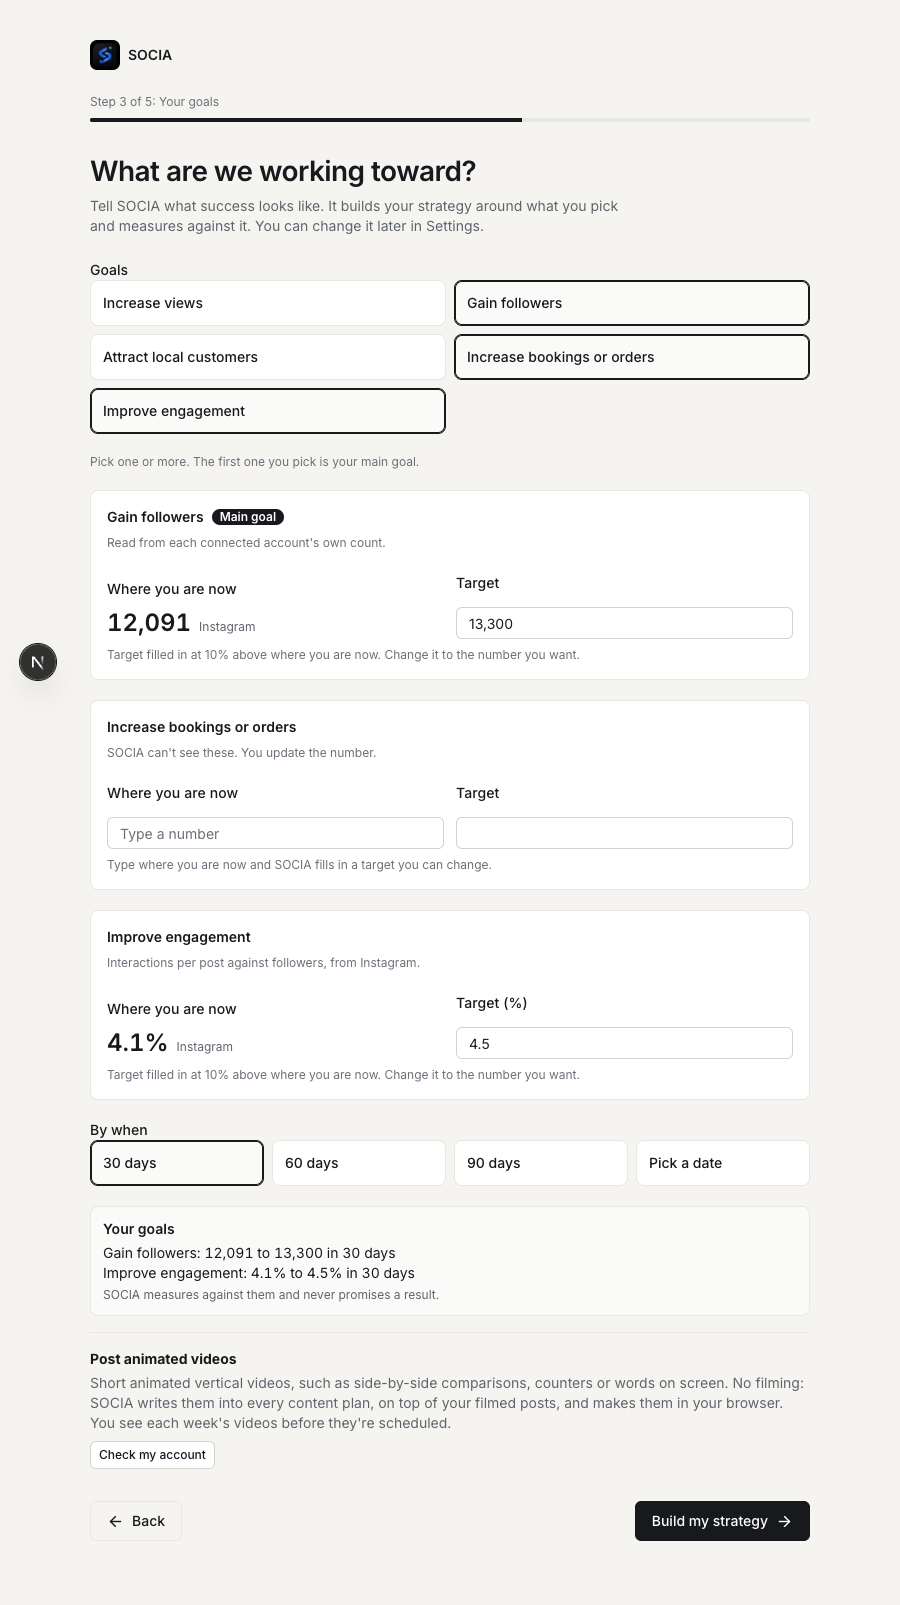
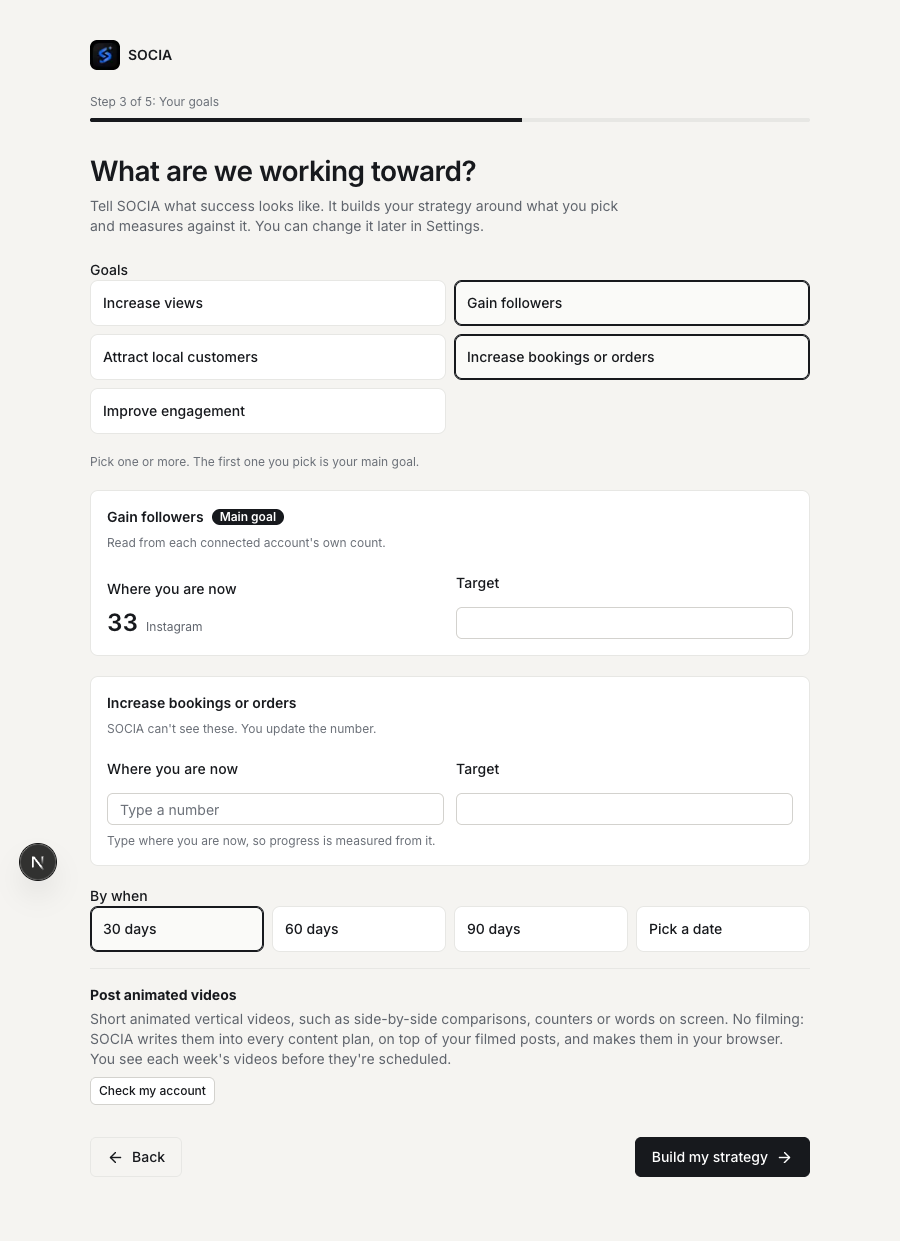
Onboarding goals: the person sets the target, nothing is filled in
The filled-in target (a fixed step above where the account is now) offered 37
followers to someone aiming for 5,000. The target field now starts empty and
the person types their own number. Where the account is now is still shown,
and 30 days is still the starting timeframe.

diff --git a/components/onboarding/GoalStep.tsx b/components/onboarding/GoalStep.tsx
@@ -2,13 +2,14 @@
 
 // Onboarding's goal step (Noah, 2026-11-15): pick one or more goals. Each
 // shows where the account is now (read from the connected accounts when SOCIA
-// can measure it, typed when it can't) and a target that is filled in as a
-// plain rule above that number (lib/goalStep.ts suggestTarget) for the person
-// to change. One timeframe covers all of them, 30 days unless changed. The
-// first goal picked is the main goal. Nothing here says a target will be met.
+// can measure it, typed when it can't) and a target the person sets
+// themselves: SOCIA doesn't fill one in (Noah, 2026-11-16: it offered 37
+// followers when he wanted 5,000). One timeframe covers all of them, 30 days
+// unless changed. The first goal picked is the main goal. Nothing here says a
+// target will be met.
 import { forwardRef, useEffect, useImperativeHandle, useRef, useState } from "react";
 import { GOAL_PLATFORM_NAME, MAIN_GOALS, formatGoalValue, goalMetric, type Goal, type GoalMetricId, type GoalPlatform, type MainGoalId } from "@/lib/growth";
-import { TIMEFRAMES, daysUntil, dueFor, dueIn, goalStepError, goalStepSummary, suggestRule, suggestTarget, targetNumber, type Timeframe } from "@/lib/goalStep";
+import { TIMEFRAMES, daysUntil, dueFor, dueIn, goalStepError, goalStepSummary, targetNumber, type Timeframe } from "@/lib/goalStep";
 import { Field, Input } from "@/components/system";
 import { Choices } from "@/components/growth/GrowthFields";
 
@@ -44,9 +45,8 @@ const GoalStep = forwardRef<GoalStepHandle, Props>(function GoalStep({ tableRead
     const start = [initial.main, ...(initial.others ?? [])].filter((g): g is MainGoalId => Boolean(g));
     return start.length ? [...new Set(start)] : suggested ? [suggested.goal] : [];
   });
-  // What the person typed, per goal. A target they haven't touched follows the rule.
+  // What the person typed, per goal.
   const [targets, setTargets] = useState<Partial<Record<MainGoalId, string>>>({});
-  const [edited, setEdited] = useState<Partial<Record<MainGoalId, boolean>>>({});
   const [typedNow, setTypedNow] = useState<Partial<Record<MainGoalId, string>>>({});
   const [frame, setFrame] = useState<Timeframe>(30);
   const [due, setDue] = useState("");
@@ -75,15 +75,15 @@ const GoalStep = forwardRef<GoalStepHandle, Props>(function GoalStep({ tableRead
       seeded.current = true;
       const goals = (Array.isArray(j?.goals) ? j.goals : []) as Goal[];
       setSaved(goals);
-      const t: Partial<Record<MainGoalId, string>> = {}, e: Partial<Record<MainGoalId, boolean>> = {}, n: Partial<Record<MainGoalId, string>> = {};
+      const t: Partial<Record<MainGoalId, string>> = {}, n: Partial<Record<MainGoalId, string>> = {};
       for (const m of MAIN_GOALS) {
         const g = goals.find((x) => x.metric === m.metric);
         if (!g) continue;
-        t[m.id] = show(m.metric, g.target); e[m.id] = true;
+        t[m.id] = show(m.metric, g.target);
         const at = g.current_value ?? g.baseline;
         if (!goalMetric(m.metric)?.measuredOn.length && at != null) n[m.id] = show(m.metric, at);
       }
-      setTargets((v) => ({ ...t, ...v })); setEdited((v) => ({ ...e, ...v })); setTypedNow((v) => ({ ...n, ...v }));
+      setTargets((v) => ({ ...t, ...v })); setTypedNow((v) => ({ ...n, ...v }));
       const primary = goals.find((g) => g.kind === "primary" && g.due_date && g.due_date > today);
       if (primary?.due_date) {
         const preset = TIMEFRAMES.find((d) => dueIn(d, today) === primary.due_date);
@@ -103,9 +103,7 @@ const GoalStep = forwardRef<GoalStepHandle, Props>(function GoalStep({ tableRead
     const metric = goalMetric(goal.metric)!;
     const read = nowValues?.[goal.metric] ?? null;
     const now = read ? read.value : targetNumber(typedNow[id] ?? "");
-    const rule = days ? suggestTarget(goal.metric, now, days) : null;
-    const target = edited[id] ? targets[id] ?? "" : rule != null ? show(goal.metric, rule) : "";
-    return { goal, metric, read, now, rule, target, manual: !metric.measuredOn.length };
+    return { goal, metric, read, now, target: targets[id] ?? "", manual: !metric.measuredOn.length };
   }
 
   useImperativeHandle(ref, () => ({
@@ -195,21 +193,16 @@ const GoalStep = forwardRef<GoalStepHandle, Props>(function GoalStep({ tableRead
                   )}
                   <Field label={`Target${unit}`} error={bad ? err!.text : undefined}>
                     <Input inputMode="decimal" value={v.target} aria-invalid={bad || undefined}
-                      onChange={(e) => { setTargets((x) => ({ ...x, [id]: e.target.value })); setEdited((x) => ({ ...x, [id]: true })); setErr(null); }} />
+                      onChange={(e) => { setTargets((x) => ({ ...x, [id]: e.target.value })); setErr(null); }} />
                   </Field>
                 </div>
-                <p className="gp-note" role="status">
-                  {v.rule != null && !edited[id] ? `Target filled in at ${suggestRule(days!)}. Change it to the number you want.`
-                    : v.rule != null && edited[id] && targetNumber(v.target) !== v.rule ? (
-                      <>Your own target. <button type="button" className="ob-linkbtn" onClick={() => setEdited((x) => ({ ...x, [id]: false }))}>Use {show(v.goal.metric, v.rule)} ({suggestRule(days!)})</button></>
-                    )
-                    : v.rule != null ? `That is ${suggestRule(days!)}.`
-                    : v.now === 0 ? "You're starting from zero, so set the number you want to reach."
-                    : !days ? "Choose when you want to reach it and SOCIA fills in a target you can change."
-                    : v.manual ? "Type where you are now and SOCIA fills in a target you can change."
-                    : nowValues ? "SOCIA couldn't read where you are now for this goal. Type it to get a target filled in, or set your own. Your starting point is recorded from the account when the numbers arrive."
-                    : "Reading where you are now."}
-                </p>
+                {!v.read && (
+                  <p className="gp-note" role="status">
+                    {v.manual ? "Type where you are now, so progress is measured from it."
+                      : nowValues ? "SOCIA couldn't read where you are now for this goal. You can type it; your starting point is recorded from the account when the numbers arrive."
+                      : "Reading where you are now."}
+                  </p>
+                )}
               </>
             )}
           </section>

diff --git a/lib/goalStep.ts b/lib/goalStep.ts
@@ -1,7 +1,7 @@
 // The goal step of onboarding (Noah, 2026-11-15): one or more goals, each with
-// a target, and one timeframe, set against where the account really stands
-// now. A target is filled in for the person to change: a plain rule (a fixed
-// step above where they are now), said as a rule on the screen. SOCIA never
+// a target the person sets, and one timeframe, set against where the account
+// really stands now. SOCIA never suggests a number (Noah, 2026-11-16: a
+// filled-in target of 37 followers was no use to someone aiming for 5,000) or
 // says a target will be reached; it only checks that the target is a target
 // (above the starting point) and the date is in the future. Pure and
 // browser-safe.
@@ -35,44 +35,9 @@ export const targetNumber = (text: string): number | null => {
   return Number.isFinite(n) ? n : null;
 };
 
-/** How far above "now" the filled-in target sits, for each 30 days of the timeframe. */
-export const SUGGEST_STEP = 0.1;
-
 /** Whole days from `today` to `due` (both YYYY-MM-DD). */
 export const daysUntil = (due: string, today: string): number =>
   Math.round((Date.parse(`${due}T12:00:00Z`) - Date.parse(`${today}T12:00:00Z`)) / 86_400_000);
-
-/** A count rounded to a tidy number of its own size (13,300 not 13,300.1). */
-function tidy(n: number): number {
-  if (n < 100) return Math.ceil(n);
-  if (n < 1_000) return Math.round(n / 5) * 5;
-  if (n < 10_000) return Math.round(n / 50) * 50;
-  const unit = 10 ** (Math.floor(Math.log10(n)) - 2);
-  return Math.round(n / unit) * unit;
-}
-
-/**
- * The target filled in for a goal: SUGGEST_STEP above where the account is
- * now for each 30 days. A rule, not a forecast, and the person can change it.
- * Null when there is no starting number above zero to work from.
- */
-export function suggestTarget(metric: GoalMetricId, now: number | null, days: number): number | null {
-  if (now == null || !(now > 0) || !(days > 0)) return null;
-  const raw = now * (1 + SUGGEST_STEP * (days / 30));
-  if (goalMetric(metric)?.unit === "count") {
-    const t = tidy(raw);
-    return t > now ? t : Math.floor(now) + 1;
-  }
-  const t = Math.round(raw * 10) / 10;
-  const up = t > now ? t : Math.round((now + 0.1) * 10) / 10;
-  return goalMetric(metric)?.unit === "percent" ? Math.min(100, up) : up;
-}
-
-/** "10% above where you are now": the rule behind a filled-in target, in words. */
-export function suggestRule(days: number): string {
-  const pct = Math.round(SUGGEST_STEP * (days / 30) * 100);
-  return `${pct}% above where you are now`;
-}
 
 /**
  * What is wrong with the goal as entered, or null when it can be saved. `now`

diff --git a/lib/goalStep.test.ts b/lib/goalStep.test.ts
@@ -1,5 +1,5 @@
 import { describe, expect, it } from "vitest";
-import { dueFor, dueIn, goalStepError, goalStepSummary, suggestRule, suggestTarget, targetNumber } from "./goalStep";
+import { dueFor, dueIn, goalStepError, goalStepSummary, targetNumber } from "./goalStep";
 
 const today = "2026-11-15";
 const ok = { metric: "followers" as const, target: "10,000", frame: 90 as const, custom: "", today, now: 2450 };
@@ -24,25 +24,6 @@ describe("the goal step", () => {
     expect(targetNumber("10k")).toBe(10000);
     expect(targetNumber("1.2m views")).toBe(1200000);
     expect(goalStepError({ ...ok, metric: "bookings", target: "50 paying users", frame: 30, now: null })).toBeNull();
-  });
-  it("fills in a target from where the account is now, as a plain rule", () => {
-    expect(suggestTarget("followers", 12091, 30)).toBe(13300);
-    expect(suggestTarget("followers", 12091, 90)).toBe(15700);
-    expect(suggestTarget("bookings", 20, 30)).toBe(22);
-    expect(suggestTarget("bookings", 3, 30)).toBe(4);
-    expect(suggestTarget("engagement_rate", 4.1, 30)).toBe(4.5);
-    expect(suggestTarget("engagement_rate", 99.9, 90)).toBe(100);
-    // Nothing to work from: no starting number, or zero.
-    expect(suggestTarget("followers", null, 30)).toBeNull();
-    expect(suggestTarget("bookings", 0, 30)).toBeNull();
-    // Whatever it fills in passes the step's own check.
-    for (const now of [1, 7, 48, 250, 999, 4321, 12091, 250000]) {
-      const t = suggestTarget("followers", now, 30)!;
-      expect(t).toBeGreaterThan(now);
-      expect(goalStepError({ ...ok, target: String(t), frame: 30, now })).toBeNull();
-    }
-    expect(suggestRule(30)).toBe("10% above where you are now");
-    expect(suggestRule(60)).toBe("20% above where you are now");
   });
   it("accepts a real target with a timeframe", () => {
     expect(goalStepError(ok)).toBeNull();
